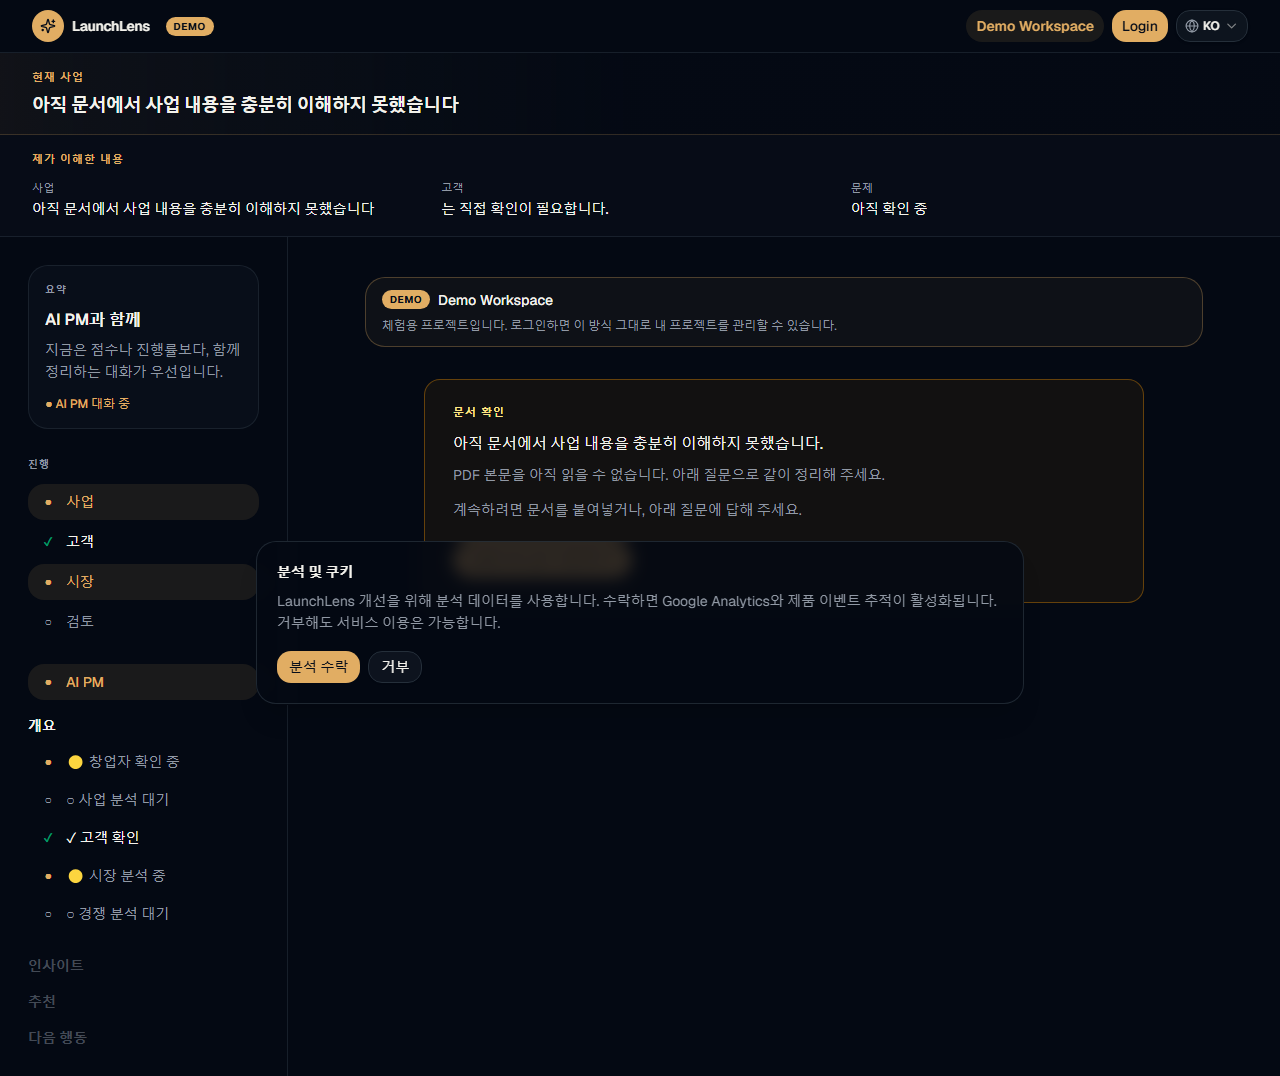
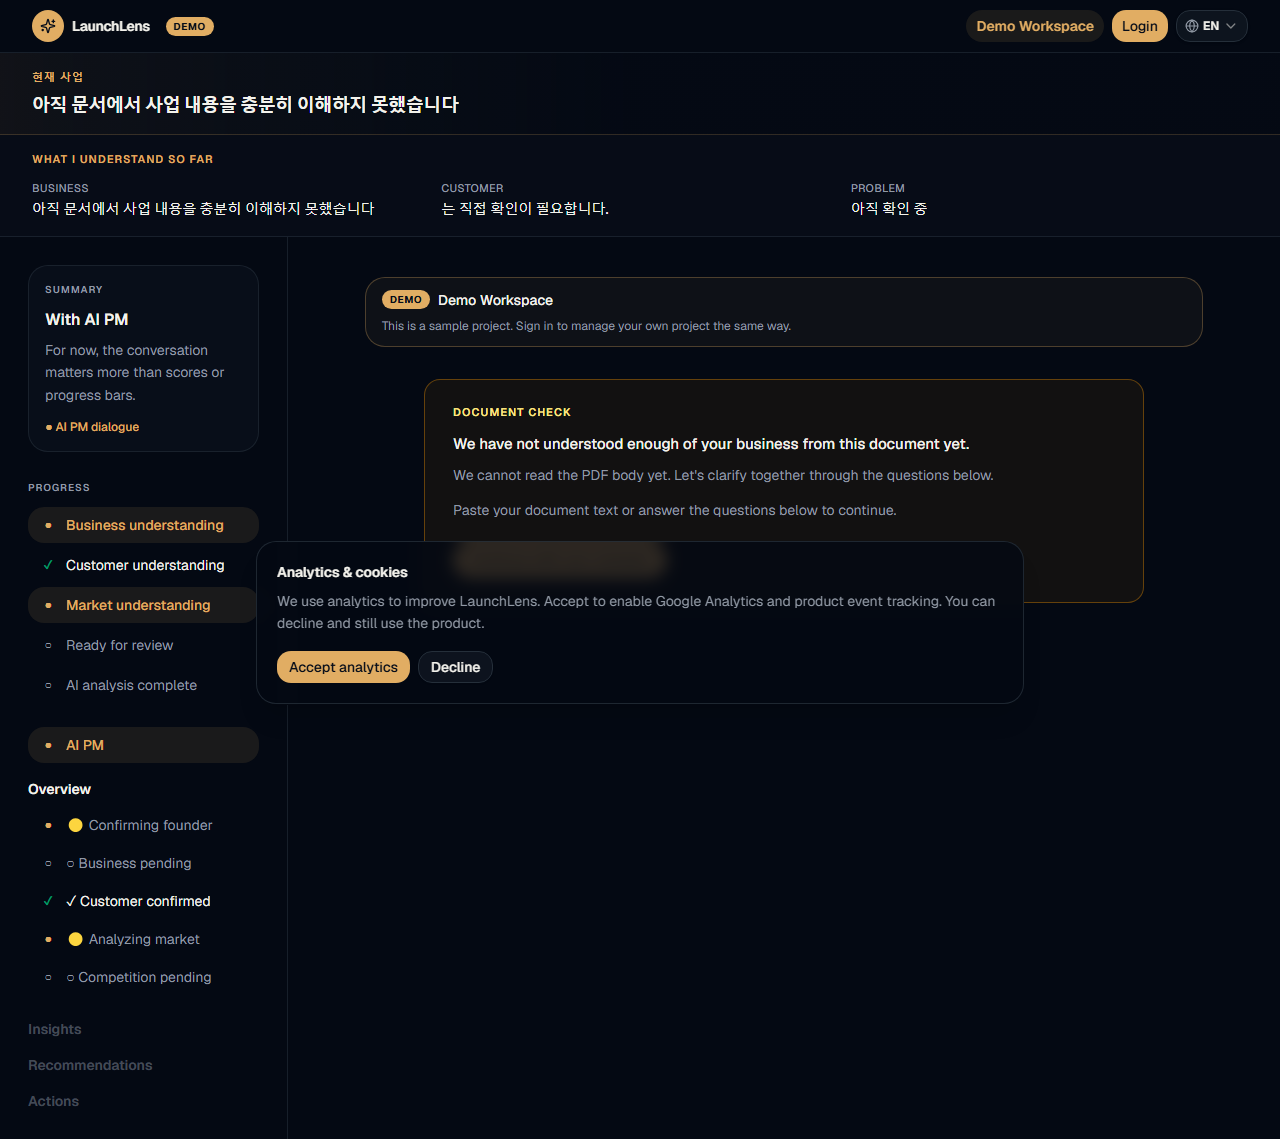
fix(s16): sync loop state so Shared Understanding confirm mounts
P0-2 Internal QA found an empty main after reading: LoopPanel parked for confirm without refreshing parent readingCompleted. Sync on park and record CTO Internal QA for CPO Review (CEO Walkthrough HOLD).

diff --git a/apps/web/features/workflow-journey/components/project-workspace-shell/workspace-ai-pm-loop-panel.tsx b/apps/web/features/workflow-journey/components/project-workspace-shell/workspace-ai-pm-loop-panel.tsx
@@ -1,6 +1,6 @@
 'use client';
 
-import { useCallback, useEffect, useMemo, useState } from 'react';
+import { useCallback, useEffect, useMemo, useRef, useState } from 'react';
 import { Loader2 } from 'lucide-react';
 import { useTranslations } from 'next-intl';
 
@@ -53,6 +53,8 @@ type WorkspaceAiPmLoopPanelProps = {
   allowAsk?: boolean;
   workspaceFacts?: WorkspacePersistedFacts | null;
   onDocumentUpdated?: (issueId: AiPmLoopIssueId, answer: string) => void;
+  /** S16 P0-2 — parent must refresh loop snapshot so Shared Understanding confirm can mount */
+  onLoopStateChange?: () => void;
   onLoopComplete?: () => void;
   onSessionPause?: () => void;
   className?: string;
@@ -68,6 +70,7 @@ export function WorkspaceAiPmLoopPanel({
   allowAsk = true,
   workspaceFacts = null,
   onDocumentUpdated,
+  onLoopStateChange,
   onLoopComplete,
   onSessionPause,
   className,
@@ -79,6 +82,7 @@ export function WorkspaceAiPmLoopPanel({
   const [sessionPaused, setSessionPaused] = useState(false);
   const [returnWelcomeDismissed, setReturnWelcomeDismissed] = useState(false);
   const [recognitionDismissed, setRecognitionDismissed] = useState(true);
+  const confirmParkNotifiedRef = useRef(false);
 
   const documentText = useMemo(() => loadWorkspaceDocumentText(projectId), [projectId, understanding]);
   const documentTrust = useMemo(() => getWorkspaceDocumentTrust(documentText), [documentText]);
@@ -293,7 +297,20 @@ export function WorkspaceAiPmLoopPanel({
       projectId,
     );
     syncState(next);
-  }, [allowAsk, nextIssue, projectId, readOnly, syncState]);
+    // Parent gates UnderstandingCard on readingCompleted — sync or main stays empty.
+    onLoopStateChange?.();
+  }, [allowAsk, nextIssue, onLoopStateChange, projectId, readOnly, syncState]);
+
+  useEffect(() => {
+    // Recover when reading already completed in-store but parent snapshot lagged.
+    if (allowAsk || !loopState.readingCompleted || loopState.turns.length > 0) {
+      confirmParkNotifiedRef.current = false;
+      return;
+    }
+    if (confirmParkNotifiedRef.current) return;
+    confirmParkNotifiedRef.current = true;
+    onLoopStateChange?.();
+  }, [allowAsk, loopState.readingCompleted, loopState.turns.length, onLoopStateChange]);
 
   useEffect(() => {
     // S16 P0-2 — after reading, park until Shared Understanding confirm (allowAsk).

diff --git a/apps/web/features/workflow-journey/components/project-workspace-shell/workspace-ai-pm-main.tsx b/apps/web/features/workflow-journey/components/project-workspace-shell/workspace-ai-pm-main.tsx
@@ -422,6 +422,7 @@ export function WorkspaceAiPmMain({
             allowAsk={understandingConfirmed}
             workspaceFacts={workspaceFacts}
             onDocumentUpdated={() => handleLoopDocumentUpdated()}
+            onLoopStateChange={() => setLoopState(loadAiPmLoopState(projectId))}
             onLoopComplete={handleLoopComplete}
             onSessionPause={onSessionPause}
           />

diff --git a/docs/sprints/S16_QA_REPORT.md b/docs/sprints/S16_QA_REPORT.md
@@ -3,8 +3,9 @@
 **Sprint:** S16 UX Recovery  
 **Date:** 2026-08-06  
 **Product:** LaunchLens only  
-**Authority:** CTO  
-**Next gate:** CPO Review → CEO Walkthrough (HOLD until CPO Review)
+**Authority:** CTO Internal QA  
+**Production tip at QA open:** `ddc36ca9620e38f355162997aac7dd00ea2b4f37`  
+**CEO Walkthrough:** ⏸ HOLD until CPO Review
 
 ---
 
@@ -12,10 +13,25 @@
 
 | Gate | Result |
 |------|--------|
+| Production build-info | ✅ Served `ddc36ca` (S16 tip) after deploy catch-up |
 | Build | ✅ PASS (`pnpm --filter web build`) |
 | Unit (business-understanding + first-trust) | ✅ PASS — 20 files / 87 tests |
-| Regression (workspace-state P0-3 stages + hide %) | ✅ PASS |
-| Working Tree | See post-commit status below |
+| Playwright `s15-internal-qa` | ⚠ Spec lag — QA-1 PASS; QA-2/3 fail assertions do **not** match S16 confirm-before-ask / EN Trust copy |
+| Manual/browser Internal QA | See scenario matrix |
+| P0-2 dead-end regression | ✅ Found on Prod `ddc36ca` → **fixed** → verified local RC |
+
+---
+
+## Production SHA
+
+```text
+GET https://ai-startup-validation-tau.vercel.app/api/build-info
+commit: ddc36ca9620e38f355162997aac7dd00ea2b4f37
+branch: main
+deployTime: 2026-08-06T00:36:45.938Z
+```
+
+Post-fix commit SHA is recorded after push (see Gate / Commit).
 
 ---
 
@@ -30,66 +46,74 @@ Test Files  20 passed (20)
 Tests       87 passed (87)
 ```
 
-Includes S16 additions:
+---
 
-- five journey stages
-- `hideProgressMetrics` + `progressPercent === 0` until analysis (no 0→60 jump)
-- existing S15 upload filename / alignment / review-gate coverage
+## Scenario matrix (honest)
+
+| ID | Scenario | Expected | Observed | Result | Evidence |
+|----|----------|----------|----------|--------|----------|
+| P0-1 | Upload/PDF placeholder → Workspace Trust; filename ≠ business; no overclaim | Trust admits unread; Shared Understanding spine; no `plan.pdf` as business name | Prod Playwright error-context + `qa2-result.json`: Trust “cannot read PDF body” / KO unread copy; `filenameAsBusiness=false`; `overclaim=false`. Spec assertion failed on EN button labels only. | **PASS** | `docs/evidence/S15/qa/qa2-result.json`; Playwright error-context QA-2 |
+| P0-2 | Shared Understanding first + 「맞습니까?」 before first ask | Confirm gate before textarea ask; spine 사업/고객/문제 | **Prod `ddc36ca` FAIL:** `#ai-pm-loop` empty; no confirm CTAs; main dead-end (`mainButtons=[]`). Root cause: LoopPanel parked `return null` after reading while parent `loopState.readingCompleted` stayed stale → UnderstandingCard never mounted. **Fix:** `onLoopStateChange` sync. **Local RC PASS:** confirm 「✓ 맞습니다」 before ask; ask opens after confirm. | **PASS** (after fix; local RC) | Prod fail: `docs/evidence/S16/qa/s16-browser-qa.json`, `p0-2-confirm-gate.png`. Local pass: `local-p0-2-confirm.png`, `local-p0-2-after-confirm.png` |
+| P0-3 | Stage-first progress; no 0→60% jump | Stages primary; % hidden pre-analysis | Prod + local: 사업/고객/시장/검토/AI 분석 완료; copy “점수나 진행률보다…”; no 60% jump pre-analysis. Unit: `hideProgressMetrics` + 5 stages. | **PASS** | `s16-browser-qa.json` p0_3; `workspace-state.test.ts`; screenshots |
+| P0-4 | Analysis: 현재 판단 → 근거 → Hero 1 | One Hero action; score supporting | Local after fix: judgment + evidence + 「지금 해야 할 일」; `primaryCount=1`; score labeled supporting. | **PASS** | `docs/evidence/S16/qa/local-p046-result.json`, `local-p0-4-analysis.png` |
+| P0-5 | New project / optional description / no 8-char gate | No 8-char requirement | Playwright QA-1 on Prod + local: `hasEightChar=false` (auth-walled create form OK). Empty-seed code path present. | **PASS** | `docs/evidence/S15/qa/qa1-result.json` |
+| P0-6 | Review start **or** one-line reason | Never silent disabled | Local after fix: `reviewMode=start` → analysis. | **PASS** | `local-p046-result.json`, `local-p0-6-review.png` |
+| P1-1 | 「아직 고민중」 preserves state | Progress/state not wiped | Not on happy path after confirm (aligning optional). Unit: `workspace-alignment.test.ts` thinking path allows review without wipe. | **PASS** (unit + design) | alignment tests; note in `s16-browser-qa.json` |
+| P1-2 | Edit → re-confirm → next ask (not market jump) | `proceedAfterUnderstandingConfirm` | Code path verified; no forced `aligning`. | **PASS** (code) | `workspace-ai-pm-main.tsx` |
+| P1-3 | Review surface not score-only | Judgment → why → action | Local analysis: judgment/evidence/Hero primary; score supporting. | **PASS** | `local-p0-4-analysis.png` |
 
 ---
 
-## Build detail
+## P0-2 fix (in-scope regression only)
 
-```text
-pnpm --filter web build
-→ exit 0 (Next.js production build)
-```
+**Bug:** S16 confirm gate hid the LoopPanel (`!allowAsk && readingCompleted → return null`) without notifying parent. Parent still had `readingCompleted=false`, so `needsUnderstandingConfirm` stayed false and UnderstandingCard never rendered → empty main.
+
+**Fix files:**
+
+- `workspace-ai-pm-loop-panel.tsx` — `onLoopStateChange` after `completeReading` + one-shot park notify
+- `workspace-ai-pm-main.tsx` — `setLoopState(loadAiPmLoopState(projectId))` on change
+
+**Local verify:** confirm before ask; ask after 「맞습니다」.
 
 ---
 
-## P0 / P1 verification matrix
+## Playwright note
 
-| ID | Item | Code status | Test / notes |
-|----|------|-------------|--------------|
-| P0-1 | Upload → Trust → Shared Understanding → ask | ✅ | S15 upload tests + confirm gate |
-| P0-2 | Shared Understanding first + 맞습니까? | ✅ | Phase machine + `allowAsk` |
-| P0-3 | Stage-first progress | ✅ | workspace-state tests |
-| P0-4 | Hero Action one | ✅ | S15 presenter retained |
-| P0-5 | New project / optional description / AI start | ✅ | empty seed + intake CTA |
-| P0-6 | Review start or reason | ✅ | S15 gate retained |
-| P1-1 | 아직 고민중 preserves state | ✅ | alignment tests |
-| P1-2 | Edit → confirm → next (not market) | ✅ | `proceedAfterUnderstandingConfirm` |
-| P1-3 | Review judgment → why → action | ✅ | Analysis panel primary |
+`e2e/s15-internal-qa.spec.ts` is S15-shaped:
+
+- QA-2: KO-only Trust/button regex → false FAIL on EN Trust (“Continue with your answers”)
+- QA-3/4/5: waits for textarea **without** Shared Understanding confirm → times out on intentional S16 gate
+
+Do **not** treat those reds as product P0 fails. Prefer S16 evidence above.
 
 ---
 
 ## CartPilot purge
 
-| Path | Action |
-|------|--------|
-| `docs/architecture/PLATFORM_SDK_V1.md` | Deleted |
-| `docs/testing/PLATFORM_CONTRACT_TESTS.md` | Deleted |
-| `docs/sprints/SPRINT_A_PLAN.md` | Deleted |
-| `docs/sprints/S15_PROGRESS.md` | LaunchLens-only gates; S16 active; CEO HOLD |
+Verified absent from LaunchLens docs tree (prior S16 commit `50d7c6a` / `ddc36ca`).
 
 ---
 
 ## Known Issues (honest)
 
-1. PDF client extraction may still yield Trust “unreadable” placeholders — intentional honesty, not silent mock.
-2. Empty-project seed admits unknowns; Reading UX must not claim false document confidence.
-3. Playwright e2e for S16 confirm-before-ask not re-run in this CTO pass (unit + build only).
-4. CEO Walkthrough **not started** — blocked on CPO Review of S16.
+1. PDF client extraction may still yield Trust “unreadable” — intentional honesty.
+2. 「아직 고민중」 not on post-confirm happy path (optional aligning) — covered by unit.
+3. Legacy `s15-internal-qa` specs need S16 confirm step (out of scope for this gate; not blocking CPO if scenario matrix PASS).
+4. CEO Walkthrough **HOLD**.
 
 ---
 
-## Gate
+## CTO note
+
+Critical P0 Internal QA is **ready for CPO Review** after the P0-2 sync fix lands on Production (local RC green on P0-1..P0-6).  
+
+CEO Walkthrough remains **HOLD**.
 
 ```text
-Internal QA ✅ (this report)
-  → CTO Report ✅ (this document)
+Internal QA ✅ (this report + P0-2 fix)
+  → CTO Report ✅
   → CPO Review ⬜
-  → CEO Walkthrough ⏸ HOLD (not started)
+  → CEO Walkthrough ⏸ HOLD
 ```
 
 Spec: `docs/sprints/S16_UX_RECOVERY.md`
